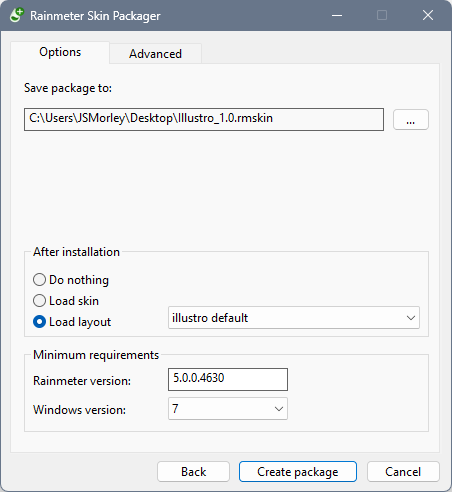
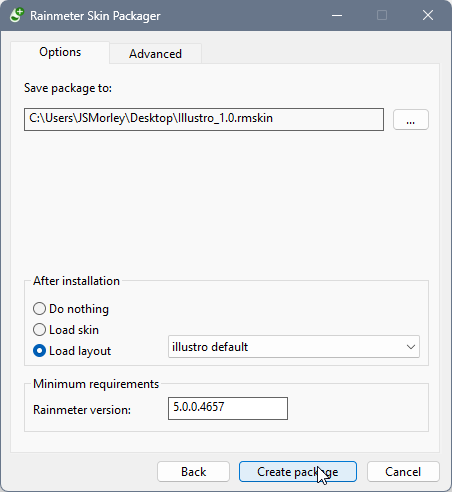
Changes to text and images on Distributing Skins

diff --git a/source/manual/distributing-skins/index.html b/source/manual/distributing-skins/index.html
@@ -72,10 +72,8 @@ title: 'Distributing Skins (.rmskin)'
 		You may set the minimum versions of Rainmeter and/or Windows required for the skin. Rainmeter will not install the skin on a system that does not meet these requirements.</p>
 		<ul>
 			<li id="RainmeterVersion"><p><b>Rainmeter version:</b><br>
-				Defaults to the current version of Rainmeter on your system. If you are sure that the skin will work on an earlier version, you may change the minimum requirement accordingly. Rainmeter version numbers are written in the form <em>Major.Minor.Patch.Revision</em>. For example, Rainmeter 4.0.0 (r2551) would be written as <code>4.0.0.2551</code>.<br><br>
-				<b>Note</b> That the revision number is just a minimum, intended to allow you to target a specific build of Rainmeter. So to target the .rmskin at <em>any</em> revision of 4.0 or later you can leave off most of the number, and just use <code>4</code>, target any revision of 4.2 with <code>4.2</code> or a specific revision number with <code>4.2.0.3111</code>.</p></li>
-			<li id="WindowsVersion"><p><b>Windows version:</b><br>
-				Defaults to <em>Windows 7</em>, which is the lowest version of Windows supported by Rainmeter 4.0 or later. Some skins may require higher versions of Windows, depending on their plugins, addons, or other factors. You can set this to a lower version of Windows, but should only do so if you are targeting a Rainmeter version less than 4.0, such as <code>3.3.0.2519</code>.</p></li>
+				Defaults to the current version of Rainmeter on your system. If you are sure that the skin will work on an earlier version, you may change the minimum requirement accordingly. Rainmeter version numbers are written in the form <em>Major.Minor.Patch.Revision</em>. For example, Rainmeter 5.0.0 (r4657) would be written as <code>5.0.0.4657</code>.<br><br>
+				<b>Note</b> That the revision number is just a minimum, intended to allow you to target a specific build of Rainmeter. So to target the .rmskin at <em>any</em> revision of 5.0 or later you can leave off most of the number, and just use <code>5</code>, target any revision of 5.1 with <code>5.1</code> or a specific revision number with <code>5.1.0.5000</code>.</p></li>
 		</ul>
 	</li>
 </ul>
@@ -158,26 +156,26 @@ title: 'Distributing Skins (.rmskin)'
 		<p>Use the <a href="!settings/skin-sections/#WindowXY">"From right" and "From bottom"</a> options to make sure your skins are loaded in the correct position regardless of the user's screen resolution. If you need to determine the skin's position in a more complex way, you can edit the "Rainmeter.ini" settings file for your layout and write your own formulas for the <a href="!settings/skin-sections/#WindowXY">WindowX, WindowY,</a> <a href="!settings/skin-sections/#AnchorXY">AnchorX and AnchorY</a> options for each skin section, using <a href="!variables/built-in-variables/">built-in variables</a>. Here are some basic formulas you can use:</p>
 
 		<ul>
-			<li><p>Center a skin on the desktop:<br>
-				<code>WindowX=(#WORKAREAX# + (#WORKAREAWIDTH#  / 2 ) - (SkinWidth / 2) + Offset)</code><sup>1</sup><br>
-				<code>WindowY=(#WORKAREAY# + (#WORKAREAHEIGHT# / 2 ) - (SkinHeight / 2) + Offset)</code></p></li>
+			<li><p>Center a skin on the desktop Work Area:<br>
+				<code>WindowX=([$DisplayWorkAreaX] + ([$DisplayWorkAreaW]  / 2 ) - ([$SkinW] / 2) + Offset)</code><sup>1</sup><br>
+				<code>WindowY=([$DisplayWorkAreaY] + ([$DisplayWorkAreaH] / 2 ) - ([$SkinH] / 2) + Offset)</code></p></li>
 			<li><p>Center a skin on the screen:<br>
-				<code>WindowX=((#SCREENAREAWIDTH#  / 2) - (SkinWidth / 2) + Offset)</code><br>
-				<code>WindowY=((#SCREENAREAHEIGHT# / 2) - (SkinHeight / 2) + Offset)</code></p></li>
-			<li><p>Align relative to the left edge of the desktop:<br>
-				<code>WindowX=(#WORKAREAX# + Offset)</code></p></li>
-			<li><p>Align relative to the right edge of the desktop:<br>
-				<code>WindowX=(Offset + SkinWidth)R</code><br>
-				or<br>
-				<code>WindowX=(#WORKAREAX# + #WORKAREAWIDTH# - SkinWidth - Offset)</code></p></li>
-			<li><p>Align relative to the top edge of the desktop:<br>
-				<code>WindowY=(#WORKAREAY# + Offset)</code></p></li>
-			<li><p>Align relative to the bottom edge of the desktop:<br>
-				<code>WindowY=(Offset + SkinHeight)B</code><br>
-				or<br>
-				<code>WindowY=(#WORKAREAY# + #WORKAREAHEIGHT# - SkinHeight - Offset)</code></p></li>
+				<code>WindowX=(([$DisplayW]  / 2) - ([$SkinW] / 2) + Offset)</code><br>
+				<code>WindowY=(([$DisplayH] / 2) - ([$SkinH] / 2) + Offset)</code></p></li>
+			<li><p>Align relative to the left edge of the desktop Work Area:<br>
+				<code>WindowX=([$DisplayWorkAreaX] + Offset)</code></p></li>
+			<li><p>Align relative to the right edge of the screen:<br>
+				<code>WindowX=(Offset + [$SkinW])R</code><br>
+				or the desktop Work Area:<br>
+				<code>WindowX=([$DisplayWorkAreaX] + [$DisplayWorkAreaW] - [$SkinW] - Offset)</code></p></li>
+			<li><p>Align relative to the top edge of the desktop Work Area:<br>
+				<code>WindowY=([$DisplayWorkAreaY] + Offset)</code></p></li>
+			<li><p>Align relative to the bottom edge of the screen:<br>
+				<code>WindowY=(Offset + [$SkinH])B</code><br>
+				or desktop Work Area:<br>
+				<code>WindowY=([$DisplayWorkAreaY] + [$DisplayWorkAreaH] - [$SkinH] - Offset)</code></p></li>
 		</ul>
 
-		<p class="footnote">1. "Offset" should be a number, e.g. <code>25R</code>, <code>-10B</code>, <code>(#WORKAREAX# + 75)</code>. If you don't need an offset (the skin is exactly centered or adjacent to the edge of the screen), leave it out. "SkinWidth" and "SkinHeight" should be the probable width and height of the skin.</p>
+		<p class="footnote">1. "Offset" should be a number, e.g. <code>25R</code>, <code>-10B</code>, <code>([$DisplayWorkAreaX] + 75)</code>. If you don't need an offset (the skin is exactly centered or adjacent to the edge of the screen), leave it out.</p>
 	</li>
 </ul>
